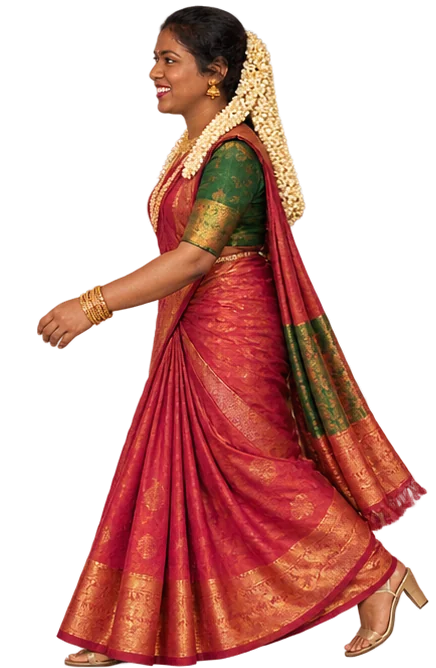
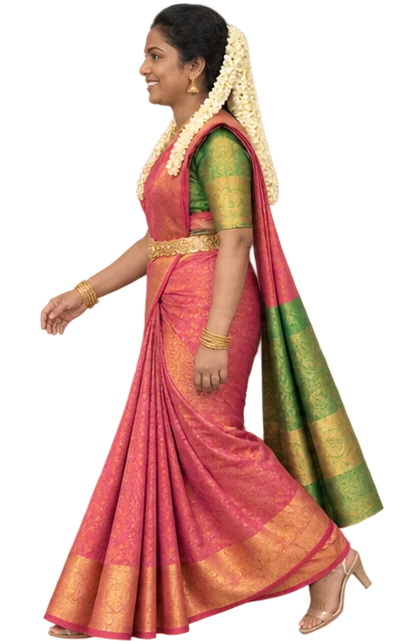
Notre rencontre : Marguerite marche en sari rose et or, comme dans les poses finales
Les proportions de cette série correspondent à la pose « ensemble » : plus besoin
de la réduire pendant la marche.

diff --git a/index.html b/index.html
@@ -30,15 +30,15 @@
   <link rel="preload" href="polices/bodoni-moda-latin.woff2" as="font" type="font/woff2" crossorigin>
   <link rel="preload" href="polices/dm-sans-latin.woff2" as="font" type="font/woff2" crossorigin>
   <link rel="preload" href="polices/great-vibes-latin.woff2" as="font" type="font/woff2" crossorigin>
-  <link rel="stylesheet" href="css/polices.css?v=20261025s">
-  <link rel="stylesheet" href="css/style.css?v=20261025s">
-  <script src="js/tete.js?v=20261025s"></script>
+  <link rel="stylesheet" href="css/polices.css?v=20261025t">
+  <link rel="stylesheet" href="css/style.css?v=20261025t">
+  <script src="js/tete.js?v=20261025t"></script>
   <script src="vendor/gsap.min.js" defer></script>
   <script src="vendor/ScrollTrigger.min.js" defer></script>
-  <script src="js/config.js?v=20261025s" defer></script>
-  <script src="js/langues.js?v=20261025s" defer></script>
-  <script src="js/main.js?v=20261025s" defer></script>
-  <script src="js/rencontre.js?v=20261025s" defer></script>
+  <script src="js/config.js?v=20261025t" defer></script>
+  <script src="js/langues.js?v=20261025t" defer></script>
+  <script src="js/main.js?v=20261025t" defer></script>
+  <script src="js/rencontre.js?v=20261025t" defer></script>
 </head>
 <body>
 <a class="saut" href="#histoire">Aller au contenu</a>
@@ -125,12 +125,12 @@
         <img class="rencontre__image" data-pas src="images/rencontre/fabrice-pas-6.webp?v=6" width="414" height="690" alt="" decoding="async">
       </div>
       <div class="rencontre__fig rencontre__fig--marguerite" data-marguerite aria-hidden="true">
-        <img class="rencontre__image" data-pas src="images/rencontre/marguerite-pas-1.webp?v=6" width="436" height="668" alt="" decoding="async">
-        <img class="rencontre__image" data-pas src="images/rencontre/marguerite-pas-2.webp?v=6" width="436" height="668" alt="" decoding="async">
-        <img class="rencontre__image" data-pas src="images/rencontre/marguerite-pas-3.webp?v=6" width="436" height="668" alt="" decoding="async">
-        <img class="rencontre__image" data-pas src="images/rencontre/marguerite-pas-4.webp?v=6" width="436" height="668" alt="" decoding="async">
-        <img class="rencontre__image" data-pas src="images/rencontre/marguerite-pas-5.webp?v=6" width="436" height="668" alt="" decoding="async">
-        <img class="rencontre__image" data-pas src="images/rencontre/marguerite-pas-6.webp?v=6" width="436" height="668" alt="" decoding="async">
+        <img class="rencontre__image" data-pas src="images/rencontre/marguerite-pas-1.webp?v=7" width="406" height="641" alt="" decoding="async">
+        <img class="rencontre__image" data-pas src="images/rencontre/marguerite-pas-2.webp?v=7" width="406" height="641" alt="" decoding="async">
+        <img class="rencontre__image" data-pas src="images/rencontre/marguerite-pas-3.webp?v=7" width="406" height="641" alt="" decoding="async">
+        <img class="rencontre__image" data-pas src="images/rencontre/marguerite-pas-4.webp?v=7" width="406" height="641" alt="" decoding="async">
+        <img class="rencontre__image" data-pas src="images/rencontre/marguerite-pas-5.webp?v=7" width="406" height="641" alt="" decoding="async">
+        <img class="rencontre__image" data-pas src="images/rencontre/marguerite-pas-6.webp?v=7" width="406" height="641" alt="" decoding="async">
       </div>
       <img class="rencontre__duo rencontre__duo--ensemble" data-ensemble src="images/rencontre/ensemble.webp" width="743" height="1200" alt="" aria-hidden="true" decoding="async">
       <img class="rencontre__duo rencontre__duo--coeur" data-coeur src="images/rencontre/coeur.webp" width="724" height="1200" alt="Fabrice et Marguerite forment un cœur avec leurs mains" decoding="async">

diff --git a/js/rencontre.js b/js/rencontre.js
@@ -53,7 +53,7 @@
   var HAUTEUR_M = 0.927; // Marguerite mesure 92,7 % de la hauteur de Fabrice
   var TETE_F_IMAGE = 0.531; // position de la tête dans les images de marche (fraction de leur largeur)
   var FOULEE = 0.9; // longueur d'une foulée complète (un cycle d'images), en hauteurs de personnage
-  var TETE_M_IMAGE = 0.422; // Marguerite marche vers la gauche : sa tête est à gauche du buste
+  var TETE_M_IMAGE = 0.426; // Marguerite marche vers la gauche : sa tête est à gauche du buste
 
   var borne = function (x) { return Math.max(0, Math.min(1, x)); };
   var lisse = function (a, b, t) { var v = borne((t - a) / (b - a)); return v * v * (3 - 2 * v); };
@@ -90,13 +90,11 @@
     // Images de marche : un cycle complet par foulée parcourue à l'écran, si bien que les pieds ne glissent pas,
     // sur téléphone comme sur grand écran, à l'aller comme au retour.
     var nF = Math.floor(Math.abs(teteF - departF) / (FOULEE * H) * pasF.length) % pasF.length;
-    var nM = Math.floor(Math.abs(teteM - departM) / (FOULEE * 0.85 * H) * pasM.length) % pasM.length;
+    var nM = Math.floor(Math.abs(teteM - departM) / (FOULEE * 0.927 * H) * pasM.length) % pasM.length;
     if (nF !== imageF) { pasF[imageF].style.opacity = 0; pasF[nF].style.opacity = 1; imageF = nF; }
     if (nM !== imageM) { pasM[imageM].style.opacity = 0; pasM[nM].style.opacity = 1; imageM = nM; }
     fabrice.style.transform = 'translate(' + (teteF - TETE_F_IMAGE * lF) + 'px,' + (-rebond) + 'px) rotate(' + bascule + 'deg)';
-    // Marguerite marche à 85 % de la hauteur de Fabrice (volumes) ; elle retrouve ses 92,7 % pendant le fondu.
-    var echelleM = entre(1, 0.927 / 0.85, lisse(0.52, 0.63, p));
-    marguerite.style.transform = 'translate(' + (teteM - TETE_M_IMAGE * lM) + 'px,' + (-rebond * 0.8) + 'px) rotate(' + (-bascule * 0.7) + 'deg) scale(' + echelleM + ')';
+    marguerite.style.transform = 'translate(' + (teteM - TETE_M_IMAGE * lM) + 'px,' + (-rebond * 0.8) + 'px) rotate(' + (-bascule * 0.7) + 'deg)';
 
     // 2. Les deux silhouettes se fondent dans la pose « ensemble » (55 → 66 %), puis dans le cœur (78 → 90 %).
     var seuls = 1 - lisse(0.56, 0.64, p);

diff --git a/css/style.css b/css/style.css
@@ -393,13 +393,11 @@ body.menu-ouvert { overflow: hidden; }
 .rencontre__fig { left: 0; opacity: 0; transform-origin: 50% 100%; will-change: transform, opacity; }
 /* Marche image par image : toutes les images d'un personnage ont le même cadre (pieds en bas) ; une seule est visible. */
 .rencontre__fig--fabrice { aspect-ratio: 414 / 690; }
-.rencontre__fig--marguerite { aspect-ratio: 436 / 668; }
+.rencontre__fig--marguerite { aspect-ratio: 406 / 641; }
 .rencontre__image { position: absolute; inset: 0; width: 100%; height: 100%; max-width: none; opacity: 0; }
 .rencontre__image:first-child { opacity: 1; }
 .rencontre__fig--fabrice { z-index: 2; }
-/* Marguerite qui marche : générée avec une tête et un buste plus gros que dans la pose « ensemble » ;
-   on la réduit à 85 % de la hauteur de Fabrice (au lieu de 92,7 %) pour que les volumes concordent. */
-.rencontre__fig--marguerite { z-index: 3; height: calc(var(--h) * .85); }
+.rencontre__fig--marguerite { z-index: 3; height: calc(var(--h) * .927); }
 .rencontre__duo { left: 50%; transform: translateX(-50%); transform-origin: 50% 100%; will-change: opacity, transform; }
 .rencontre__duo--ensemble { z-index: 4; opacity: 0; }
 .rencontre__duo--coeur { z-index: 5; }
